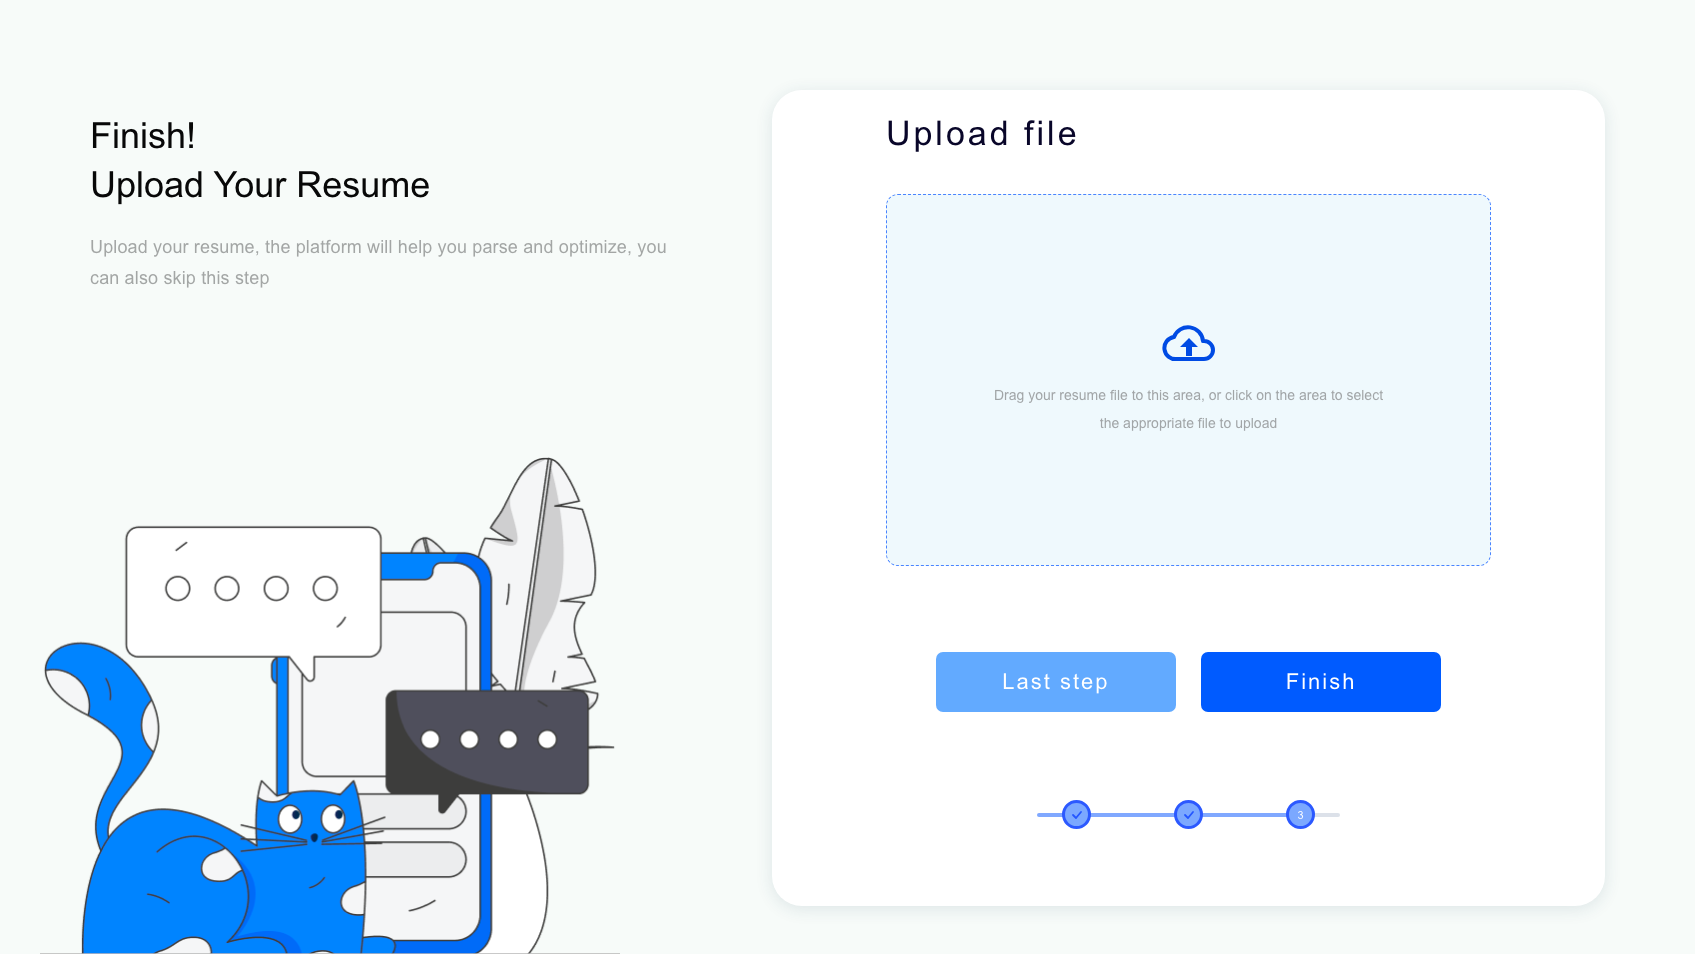
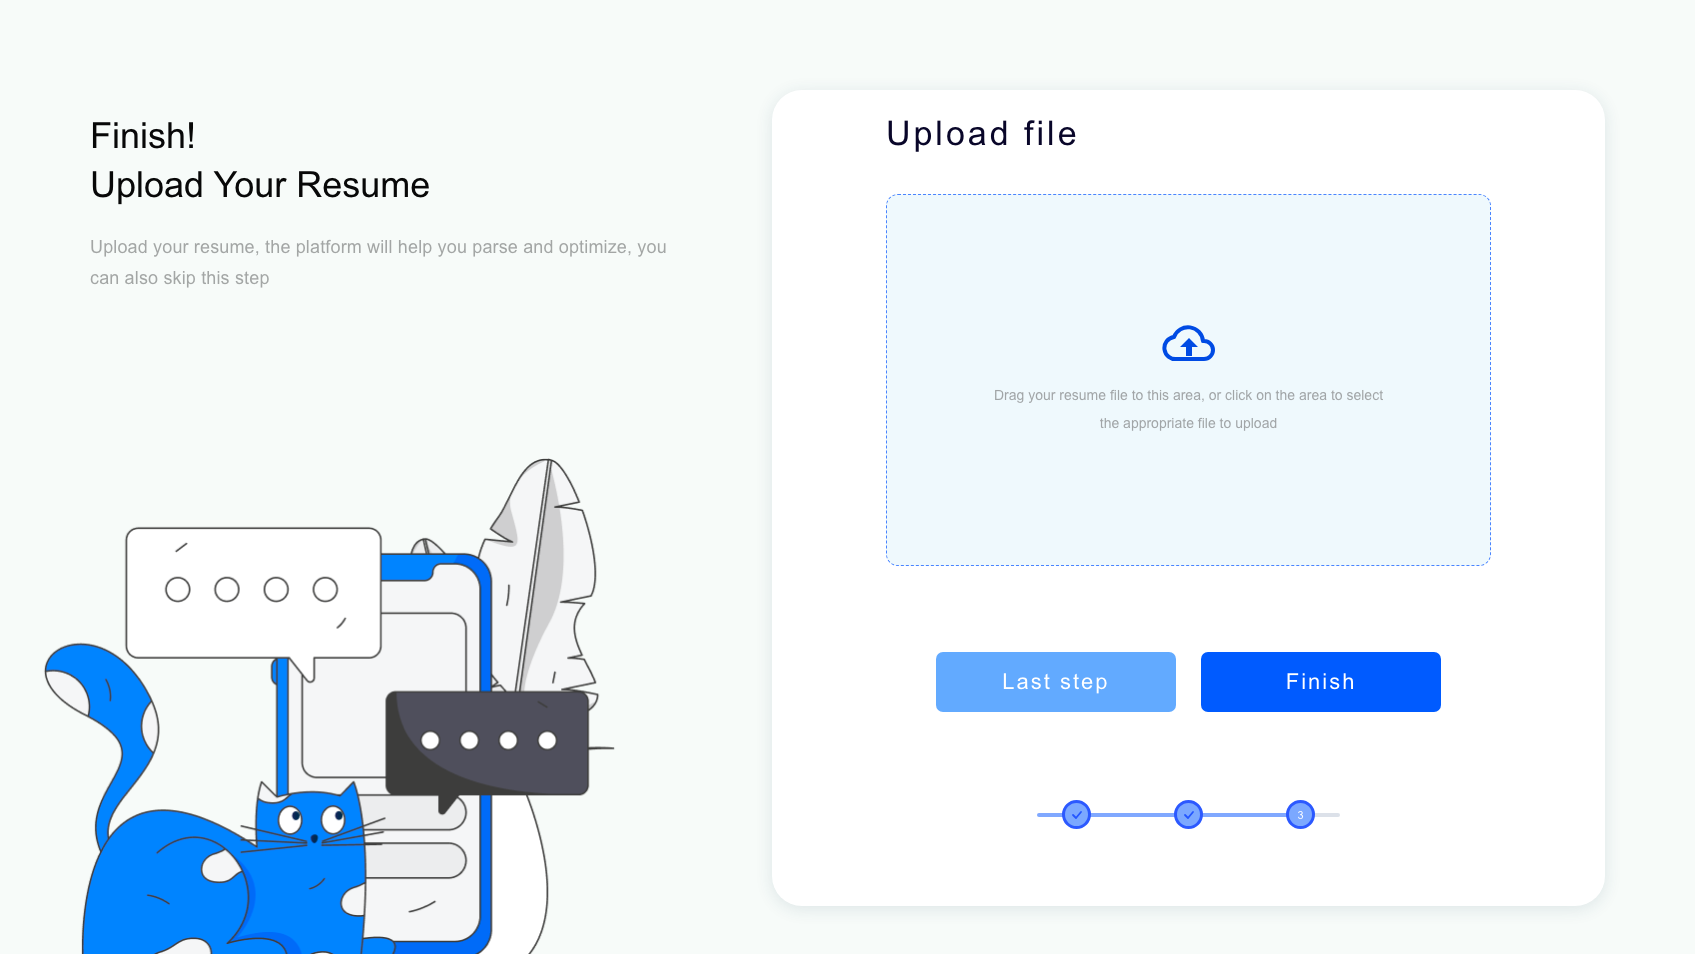
Add live preview link and final desktop screenshot

diff --git a/README.md b/README.md
@@ -2,6 +2,9 @@
 
 使用 **HTML5、CSS3 和原生 JavaScript** 还原题目中的简历上传页面。Vite 仅用于本地开发和生产打包，无运行时框架依赖。
 
+- [在线预览](https://shisanhaoyuan.github.io/front-exam/)
+- [GitHub 仓库](https://github.com/shisanhaoyuan/front-exam)
+
 ## 预览
 
 ![桌面端效果](docs/desktop.png)
